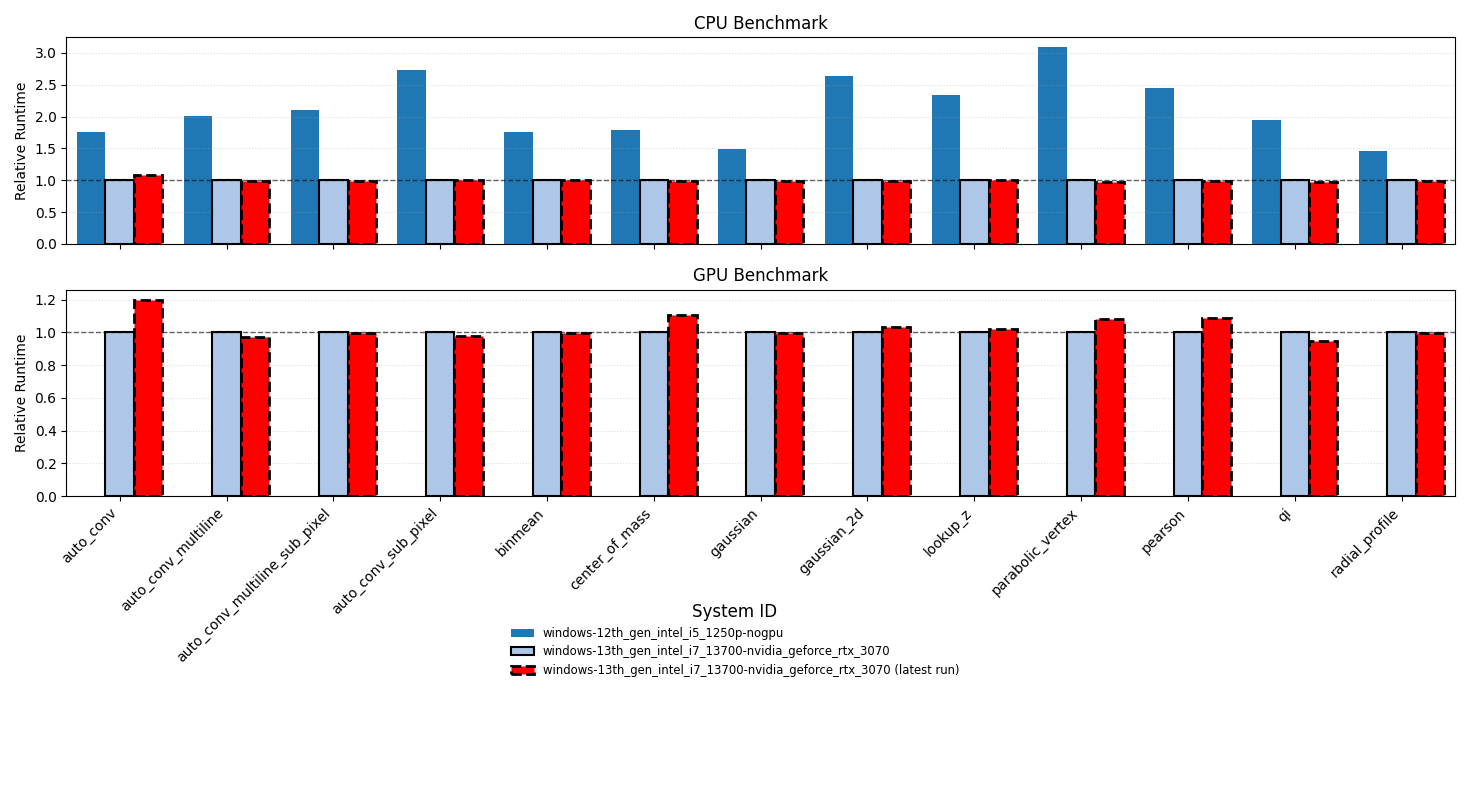
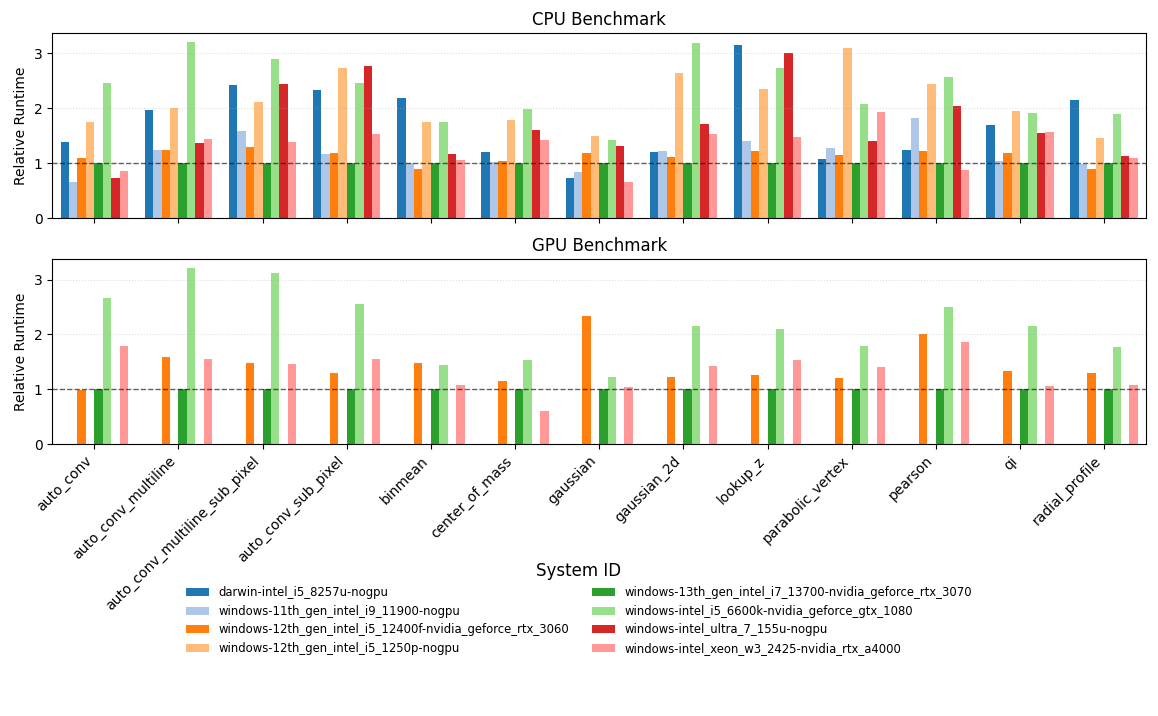
Revised benchmark plots

diff --git a/benchmarks/plot_benchmarks.py b/benchmarks/plot_benchmarks.py
@@ -58,7 +58,7 @@ def plot_benchmark_history(
     log_root: Path | str = log_utils.LOG_ROOT,
     run_directory: Path | None = None,
     *,
-    show_latest: bool = True,
+    show_latest: bool = False,
 ):
     """Render a bar chart comparing the latest benchmark run to historical data.
 
@@ -296,8 +296,8 @@ def plot_benchmark_history(
             list(legend_entries.values()),
             list(legend_entries.keys()),
             loc="center",
-            bbox_to_anchor=(0.5, 0.2),
-            ncol=1,
+            bbox_to_anchor=(0.5, 0.15),
+            ncol=2,
             title="System ID",
             fontsize="small",
             title_fontsize="large",
